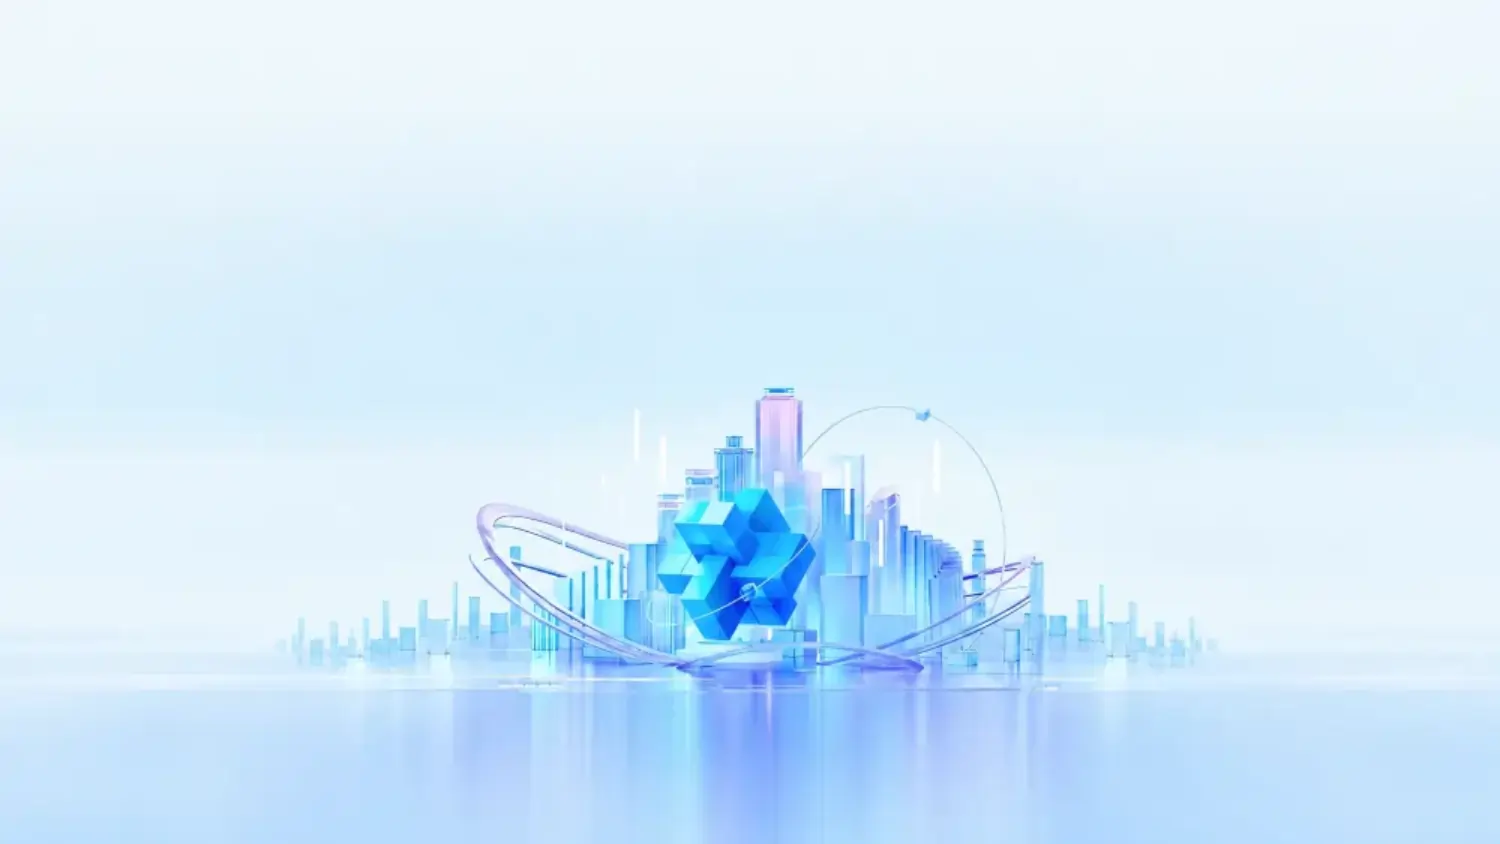
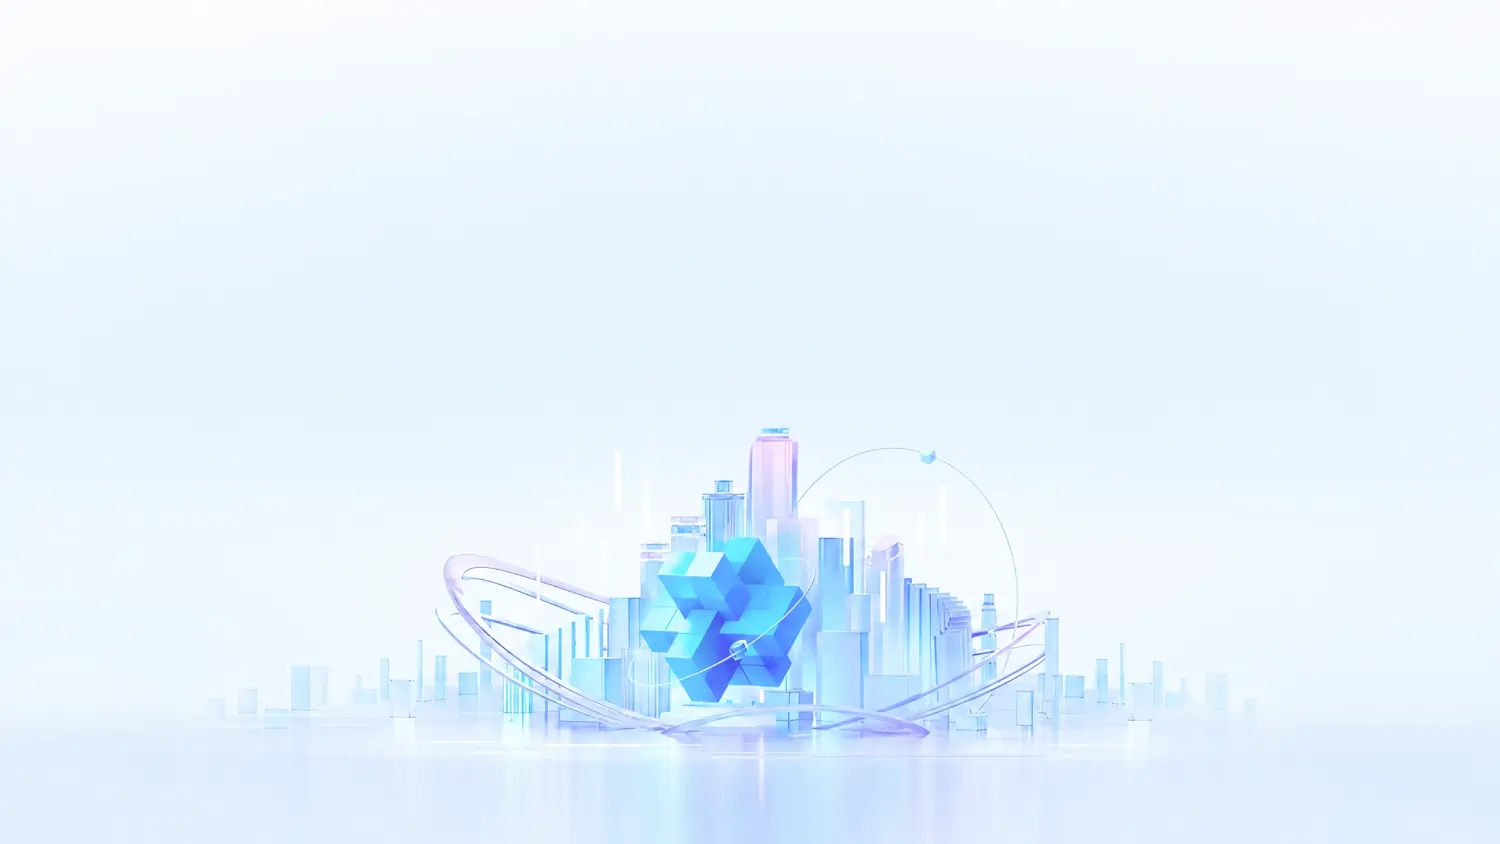
addes new image

Changed region(s): [[0.0, 0.4621, 1.0, 1.0], [0.6133, 0.5237, 0.644, 0.5545], [0.5827, 0.4621, 0.6133, 0.4929]]

diff --git a/resources/views/home.blade.php b/resources/views/home.blade.php
@@ -4,7 +4,7 @@
         <div class="relative h-screen w-full section-visible" id="home">
             <div class="absolute inset-0 bg-cover bg-center"
                  style="background-image:url('{{ asset('assets/media/images/landing.webp') }}');
-                 filter:brightness(0.7)"></div>
+                 filter:brightness(0.9)"></div>
             <div class="relative h-full flex items-center justify-center pt-4 sm:pt-2 md:pt-0">
                 <div class="mx-auto max-w-6xl w-full px-4 sm:px-6">
                     <div class="max-w-2xl mx-auto text-center">
@@ -114,7 +114,7 @@
                                     <path d="M18 16l-4-2.5" stroke="currentColor"></path>
                                 </svg>
                                 <span
-                                    class="break-words sm:whitespace-nowrap text-white text-3xl">Theme:  <span
+                                    class="break-words sm:whitespace-nowrap text-[#E22036] text-3xl">Theme:  <span
                                         class="break-words sm:whitespace-nowrap"><strong>Shaping
                                                 Tomorrow's Professional Landscape</strong></span></span>
 
